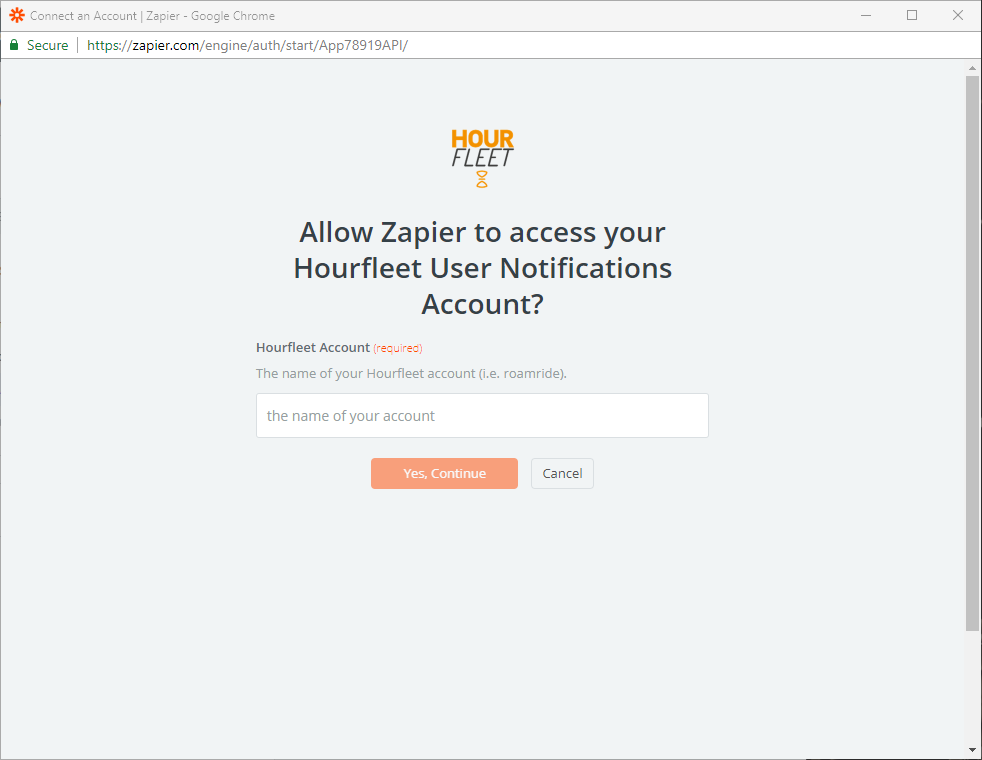
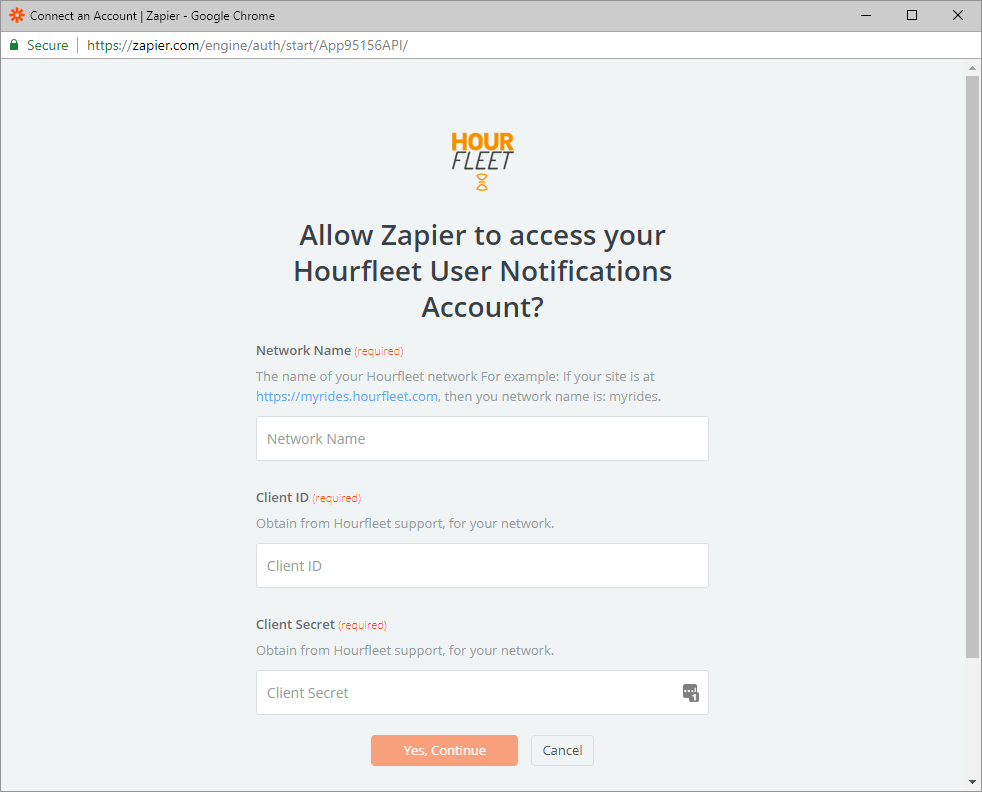
Updated for new Zap

diff --git a/docs/zapier.md b/docs/zapier.md
@@ -35,11 +35,13 @@ In this case we are going to show you connecting Hourfleet to Slack, and send al
 
 ## Step 1: Accept the Invitation
 
-Before you can select the Hourfleet app, you will need to click on this link, and complete the invitation: [Hourfleet App Invitation](https://zapier.com/developer/invite/78919/2e8309ce775718d73031ad5086cab303/)
+Before you can select the Hourfleet app, you will need to click on this link, 
+
+and accept this invitation: [Hourfleet Zap Invitation](https://zapier.com/developer/invite/95156/56d7bcf69452e20c2d857f6c96063846/)
 
 
 
-> Note: You need to complete this invitation, because the Hourfleet App is not publicly available or listed to just anyone.
+> Note: You need to accept this invitation, because the Hourfleet Zap is not publicly available.
 
 ![Accept the Invitation](images/Zapier_1.PNG)
 
@@ -65,13 +67,19 @@ Just click "Save+Continue"
 
 Just click "Connect"
 
-## Step 5: Name Your Network
+## Step 5: Provide Your Network Info
 
 A new browser window will popup.
 
 ![Name Your Network](images/Zapier_5.PNG)
 
-Here you are going to enter the name of your Hourfleet network. e.g roamride, and press "Yes, Continue".
+Here you are going to enter your network name, and some client credentials (Client ID and Client Secret)  that you must obtain for your network from Hourfleet support.
+
+> Note: The name of your Hourfleet network is your subdomain of hourfleet.com. For example, if your Hourfleet network is at https://myrides.hourfleet.com, then your network name is `myrides`.
+
+Obtain your Client ID, Client Secret from Hourfleet support, enter those, and your network name.
+
+Then press "Yes, Continue".
 
 ## Step 6: Login
 
@@ -81,7 +89,7 @@ Then you will see this window, where you are going to need to login.
 
 Your username will be: `zapier.services.appuser`
 
-Your password, you will need to obtain directly from Hourfleet support for your network.
+Your password, you will obtain directly from Hourfleet support for your network.
 
 Press "SIGN IN"
 
